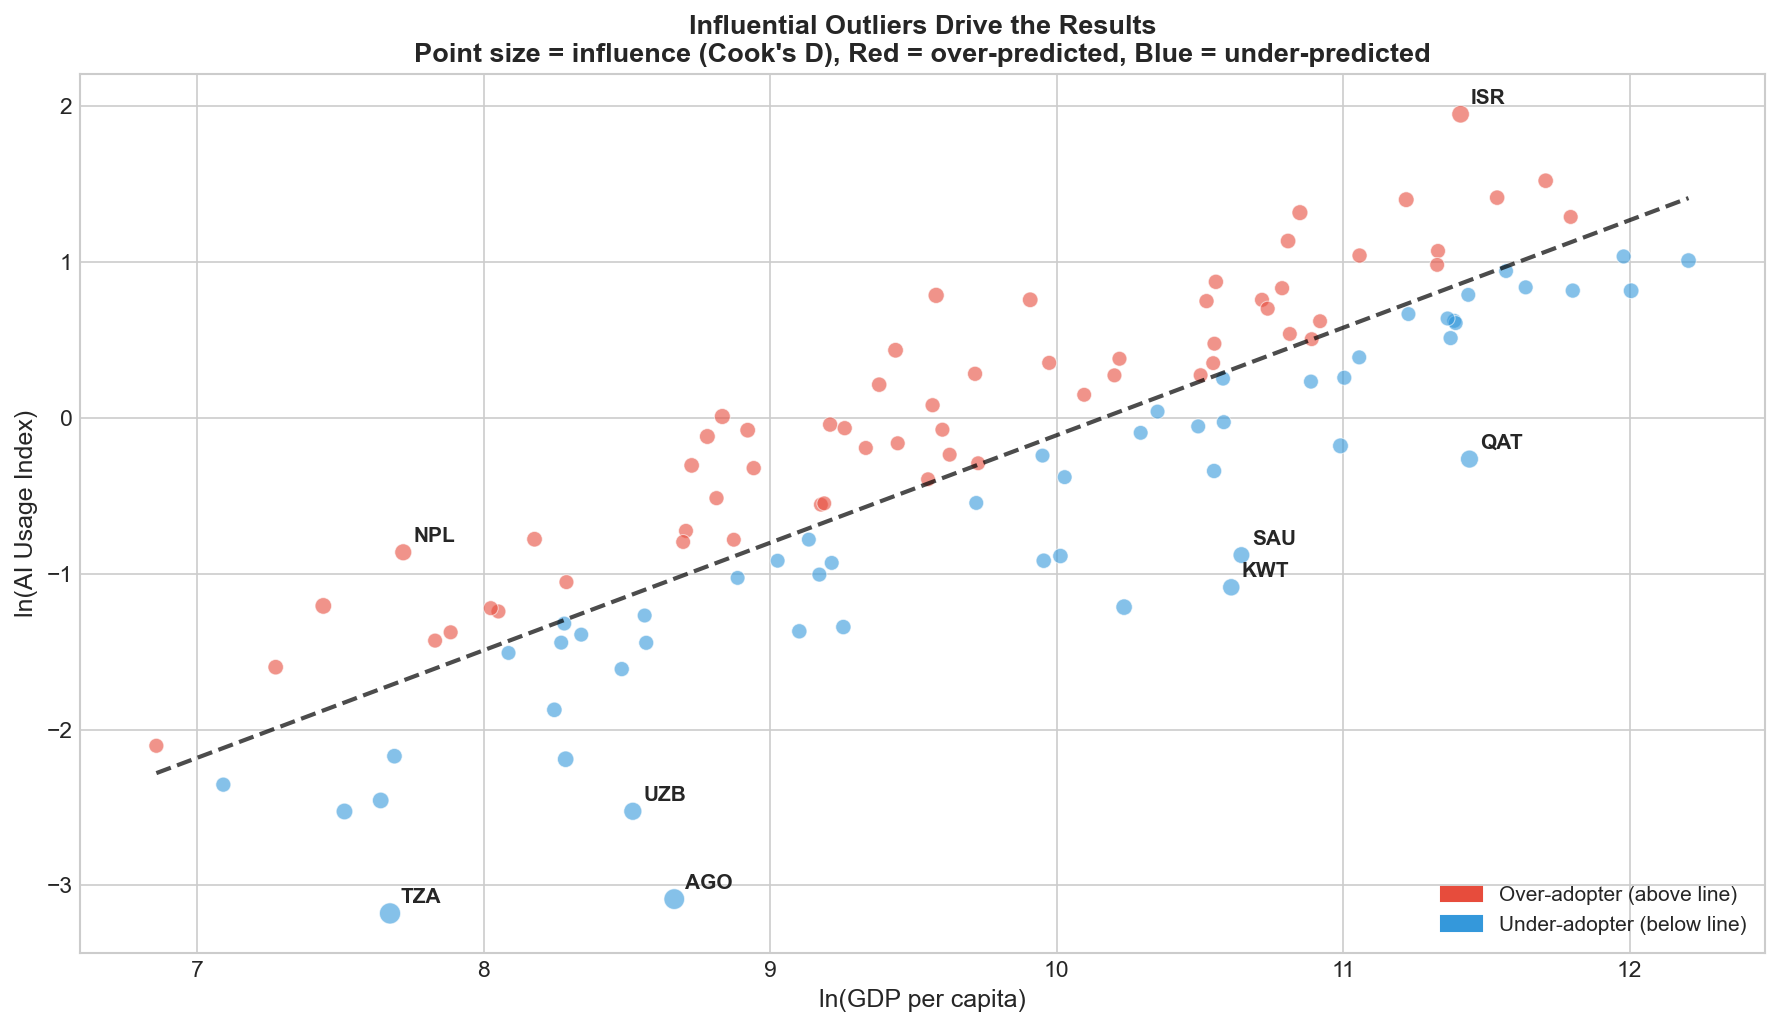
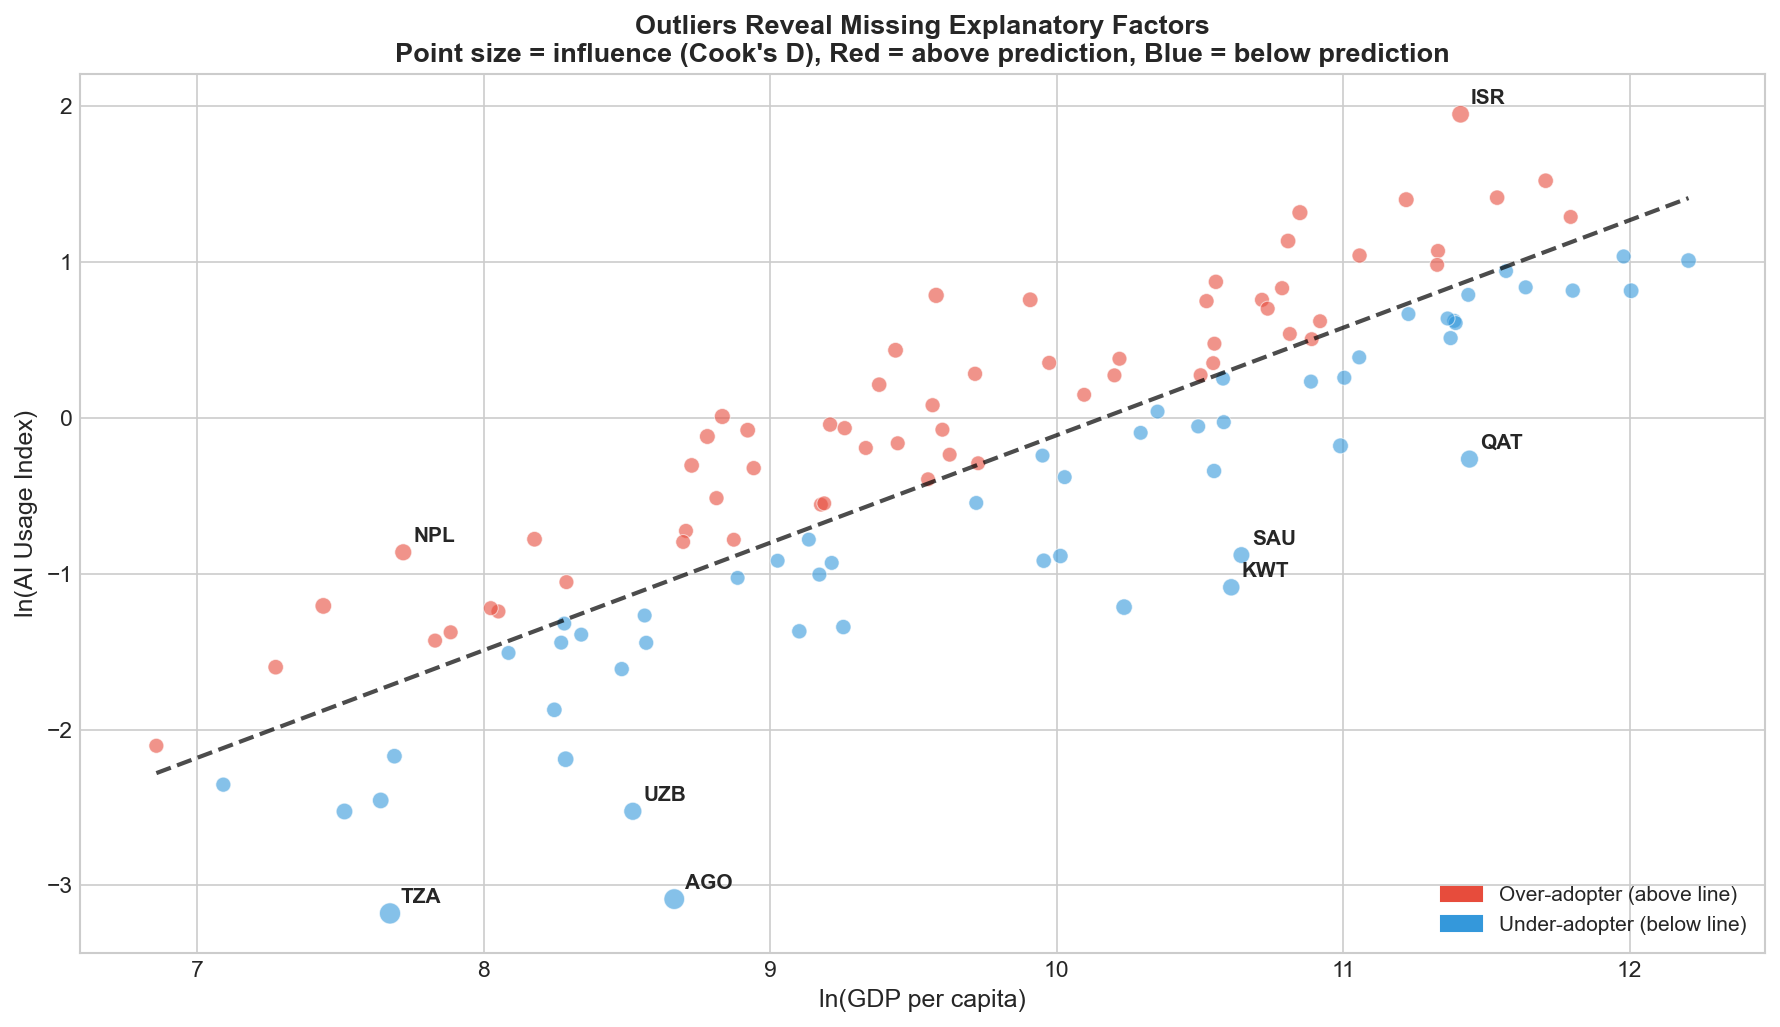
Fix outliers section: they reveal missing factors, don't drive results
- index.html: Changed "Outliers Drive Their Results" to "Outliers Point to Missing Explanatory Factors"
- create_figures.py: Updated figure 4 title
- README.md: Fixed CRITIQUE.md -> PARTIAL_POOLING.md references
- BLOG_POST.md: Fixed incorrect R² claim

Changed region(s): [[0.2163, 0.0, 0.8034, 0.0623]]

diff --git a/index.html b/index.html
@@ -294,17 +294,17 @@
         <p><strong>That's nearly 3x wider.</strong> Their interval excludes 0.44 as implausible — but 0.44 is exactly what we see in middle-income countries.</p>
     </div>
 
-    <h2>Finding #3: Outliers Drive Their Results</h2>
+    <h2>Finding #3: Outliers Point to Missing Explanatory Factors</h2>
 
     <img src="figures/fig4_outliers.png" alt="Influential outliers">
 
-    <p>A handful of unusual countries have outsized influence:</p>
+    <p>Some countries deviate dramatically from the GDP-AI adoption relationship:</p>
     <ul>
-        <li><strong>Israel</strong> — Over-adopter (3x predicted for its income level). Pulls slope UP.</li>
-        <li><strong>Tanzania, Angola</strong> — Severe under-adopters. Pull slope UP.</li>
-        <li><strong>Qatar, Kuwait, Saudi Arabia</strong> — Rich but low AI usage. Pull slope DOWN.</li>
+        <li><strong>Israel</strong> — 3x the AI usage predicted by its income level. Tech culture, education, startup ecosystem.</li>
+        <li><strong>Tanzania, Angola</strong> — Far less AI usage than GDP predicts. Infrastructure, language barriers.</li>
+        <li><strong>Qatar, Kuwait, Saudi Arabia</strong> — Rich but low AI usage. Cultural and linguistic factors.</li>
     </ul>
-    <p>The "global relationship" is really a compromise driven by ~6 unusual countries.</p>
+    <p>Removing these outliers only shifts the global slope by ~5% — so they don't drive Anthropic's estimate. But they reveal that <strong>factors beyond GDP per capita</strong> — education, language, tech infrastructure, culture — matter for AI adoption.</p>
 
     <h2>Why This Matters: Policy Implications</h2>
 

diff --git a/create_figures.py b/create_figures.py
@@ -235,7 +235,7 @@ for _, row in influential.iterrows():
 
 ax.set_xlabel('ln(GDP per capita)', fontsize=12)
 ax.set_ylabel('ln(AI Usage Index)', fontsize=12)
-ax.set_title('Influential Outliers Drive the Results\nPoint size = influence (Cook\'s D), Red = over-predicted, Blue = under-predicted',
+ax.set_title('Outliers Reveal Missing Explanatory Factors\nPoint size = influence (Cook\'s D), Red = above prediction, Blue = below prediction',
              fontsize=13, fontweight='bold')
 
 # Legend

diff --git a/README.md b/README.md
@@ -11,7 +11,7 @@
 |--------|------|-------------|
 | **🌐 Blog (Easy Read)** | [**View Online**](https://ilanstrauss.github.io/anthropic-econ-critique/) | Visual, accessible version with figures |
 | **📄 PDF** | [**Download PDF**](https://ilanstrauss.github.io/anthropic-econ-critique/?print) | Print the blog page (Ctrl/Cmd+P) |
-| **📝 Background Note** | [CRITIQUE.md](CRITIQUE.md) | Detailed methodology, equations, citations |
+| **📝 Background Note** | [PARTIAL_POOLING.md](PARTIAL_POOLING.md) | Detailed methodology, equations, citations |
 | **✍ Blog Post (Markdown)** | [BLOG_POST.md](BLOG_POST.md) | Markdown version of the blog |
 
 ---
@@ -30,7 +30,7 @@ Using Anthropic's own data with partial pooling models, we show:
 
 ## Key Findings
 
-See [CRITIQUE.md](CRITIQUE.md) for full write-up.
+See [PARTIAL_POOLING.md](PARTIAL_POOLING.md) for full write-up.
 
 ### Effect Size Comparison
 
@@ -96,7 +96,7 @@ Anthropic warns of "divergence in living standards." But a cross-sectional incom
 ```
 anthropic-econ-critique/
 ├── README.md                    # This file
-├── CRITIQUE.md                  # Full write-up
+├── PARTIAL_POOLING.md                  # Full write-up
 ├── analysis_full.py             # Main Python analysis
 ├── analysis_brms.R              # R/brms Bayesian analysis
 ├── analysis_results.csv         # Processed results

diff --git a/BLOG_POST.md b/BLOG_POST.md
@@ -77,7 +77,7 @@ This matters because middle-income countries contain much of the world's populat
 | **Middle** | **+0.094** | **+0.122** | **63.2%** |
 | High | -0.035 | -0.054 | 44.7% |
 
-Our income-group-specific regressions also tell this story: the middle-income regression has both a lower slope (β = 0.44) and a higher intercept (-4.43 vs -7.01 for Anthropic's global model), meaning it predicts higher baseline adoption for middle-income countries at typical GDP levels. Both models have low R² for this group (~10-14%), confirming GDP per capita is a weak predictor regardless of specification.
+Our income-group-specific regressions also tell this story: the middle-income regression has both a lower slope (β = 0.44) and a higher intercept (-4.43 vs -7.01 for Anthropic's global model), meaning it predicts higher baseline adoption for middle-income countries at typical GDP levels. Our middle-income regression has R² = 0.14, confirming GDP per capita is a weak predictor for this group.
 
 The implication: middle-income countries like Brazil, Mexico, Thailand, and Malaysia do not need to wait for more GDP growth in order to get more AI adoption — and aren't. Selective investments in education, digital infrastructure, English proficiency, and regulatory environment may be driving adoption. These are actionable policy levers.
 
